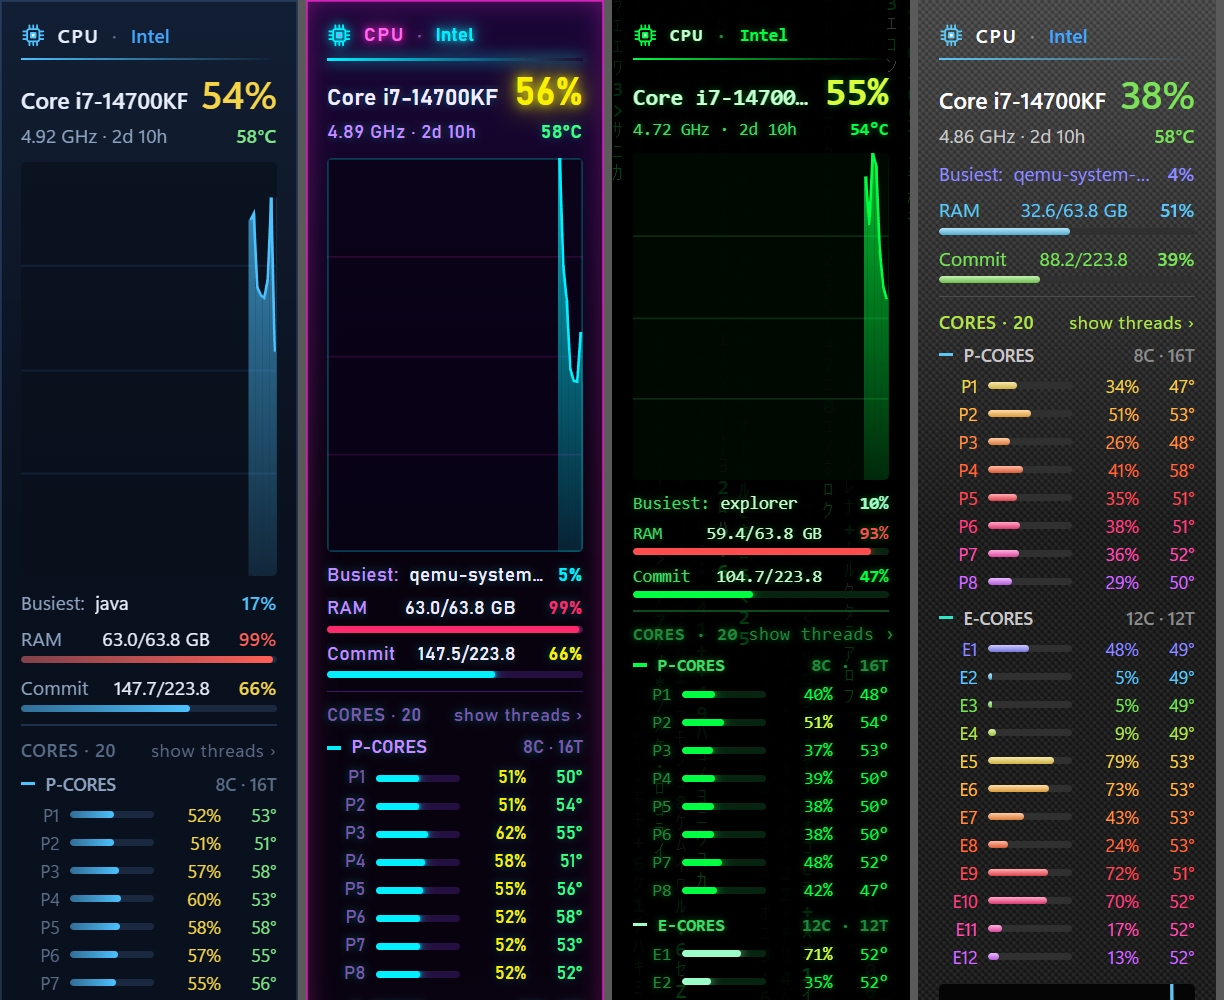
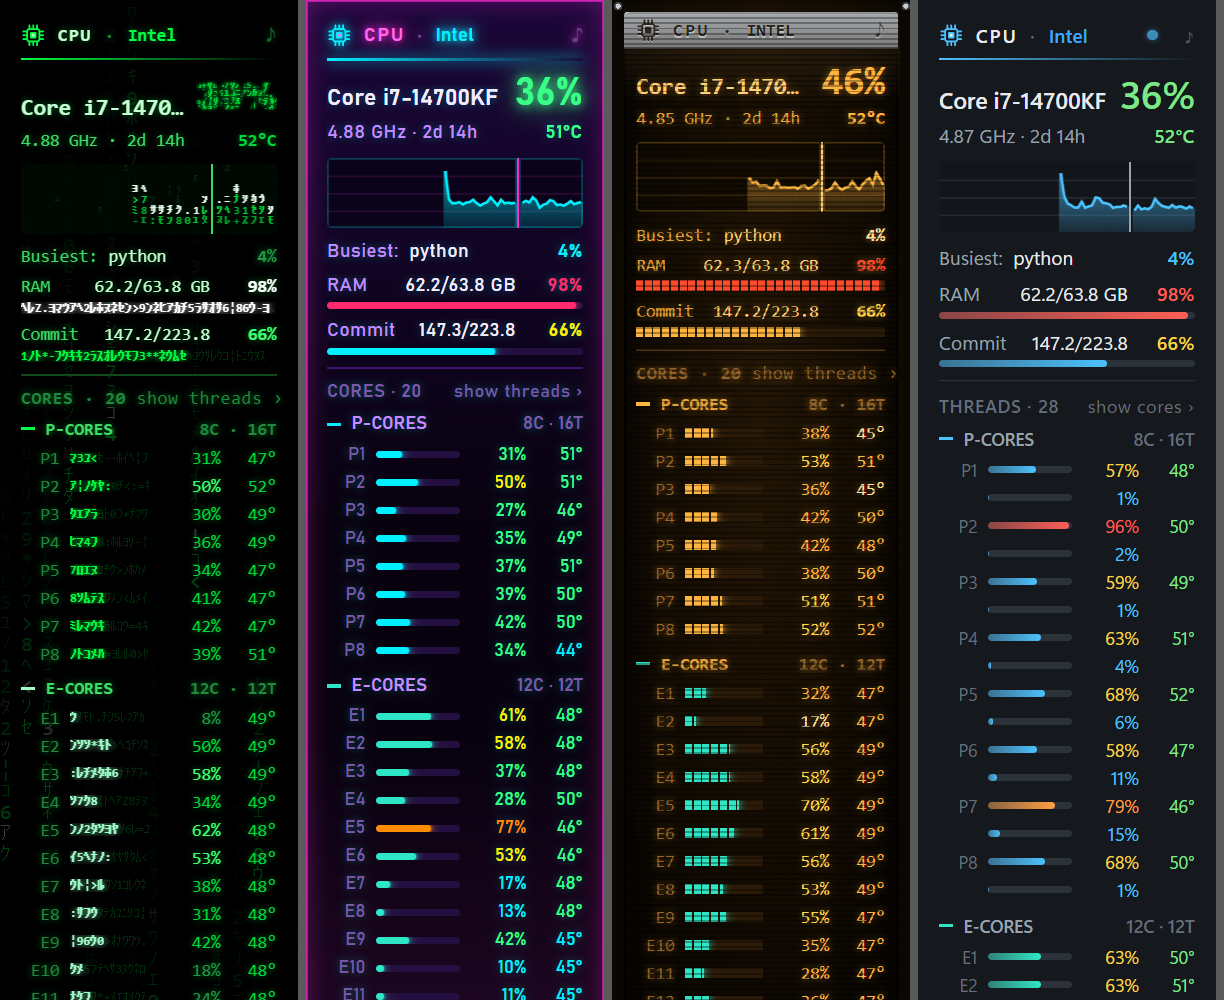
README and pictures for 0.9.1
Claude-Session: https://claude.ai/code/session_01HTZaGubNwcUTe4LQXTdqDg

diff --git a/README.md b/README.md
@@ -8,38 +8,45 @@ small window on the desktop. No 8GadgetPack needed.
 
 [![Support us on Ko-fi](https://ko-fi.com/img/githubbutton_sm.svg)](https://ko-fi.com/silverenio)
 
-![GPU Meter in Glass, Neon, Retro terminal and Matrix](docs/styles-1.png)
-![GPU Meter in Gray 90s, Rainbow, Light and Carbon](docs/styles-2.png)
+![GPU Meter in Dark, Neon 77, Digital rain and Atompunk](docs/styles-1.png)
+![GPU Meter in Terminal: monochrome, Rainbow, Gray 90s and Light](docs/styles-2.png)
 
 > **Beta (0.9).** Everything works, but it has been tried on few computers so far. If something
 > looks wrong, please [open an issue](https://github.com/livonianlabs/modern-meters-app-releases/issues).
 
 ## What it shows
 
-- **CPU:** total load and its graph, clock, uptime, the busiest program, memory, every core (P- and
-  E-cores apart on hybrid Intel processors) or every thread, temperatures from Core Temp.
-- **GPU:** load, video memory, memory controller, power, fan, clocks, temperature, encoder and
-  decoder, PCIe link. NVIDIA cards are read directly (NVML), the others through DirectX.
+- **CPU:** total load and its graph, clock, uptime, memory, every core (P- and E-cores apart on
+  hybrid Intel processors) or every thread, temperatures from Core Temp (fetched in two clicks if
+  you don't have it). A click on *Busiest* lists the five busiest programs.
+- **GPU:** load and temperature rings, video memory, memory controller, power, fan, clocks,
+  encoder and decoder, PCIe link, the busiest programs. NVIDIA cards are read directly (NVML),
+  the others through DirectX.
 - **Network:** download and upload with a graph, Wi-Fi network and signal, addresses (hidden until
   clicked), firewall, link speed, ping, traffic per session and in total.
-- **Drives:** each disk with its partitions, health, read and write speed and activity; SSD life
-  and drive temperatures once turned on (one click, needs administrator rights once).
-- **Weather:** now, the next hours as a chart, rain in the next two hours, three days, sunrise and
-  sunset, UV index and air quality, from [Open-Meteo](https://open-meteo.com/).
+- **Drives:** each disk with its partitions, health, SSD life, temperature, read and write speed.
+- **Weather:** now, the next hours as a chart, a rain radar map, rain in the next two hours, three
+  days, sunrise and sunset, UV index and air quality, from [Open-Meteo](https://open-meteo.com/).
+
+A **live zone** at the right of every graph shows the last seconds five times a second. **Alarms**
+(the ♪ on a gadget's title) sound when the processor or graphics card overheats, video memory is
+nearly full or the connection drops. If Windows' performance counters are broken, a gadget offers
+to repair them.
 
 ## Styles
 
-Glass, Colored glass, Classic, Light, Carbon, Rainbow, **Liquid** and **Air** (the desktop shows
-through, blurred), Retro terminal and three more terminals, Matrix, Neon and Gray 90s, or Auto
-(Light or Glass as Windows is set). Each has a touch of its own: the terminal's cursor retypes the
-title, the Matrix decodes it, Neon flickers like a sign, the glass catches a glint... The accent
-color is yours to pick.
+**Dark**, **Light** and **Auto** (as Windows is set); **Glass** and **Colored glass**, **Liquid** (a
+thick slab of glass bending the wallpaper, with ripples under the mouse) and **Air**, all four
+showing the wallpaper through, sharp or blurred as you like; **Carbon** and **Rainbow**; four
+**terminals** (retro green, aubergine, monochrome, blue commander); **Digital rain**, where even
+the graphs and numbers are made of falling glyphs; **Neon 77**; **Atompunk**; **Gray 90s**. Each
+has a touch of its own: a cursor retyping the title, a flickering sign, a tube warming up...
 
-![CPU Meter in Glass, Neon, Matrix and Rainbow](docs/cpu.png)
+![CPU Meter in Digital rain, Neon 77, Atompunk and Dark](docs/cpu.png)
 
 ## Install
 
-1. Download `ModernMeters-<version>-win-x64.zip` from the
+1. Download `ModernMeters-<version>.zip` from the
    [latest release](https://github.com/livonianlabs/modern-meters-app-releases/releases/latest).
 2. Unpack it into a folder of your choice, for example `Documents\Modern Meters`.
 3. Run `ModernMeters.exe`. The first start lines the gadgets up along the right edge and asks
@@ -54,18 +61,21 @@ and current Windows 10. .NET is included.
 ## Using it
 
 - **The tray icon** (by the clock; a left click brings the gadgets to the front, a right click opens
-  the menu): which gadgets are open, line them up, style, accent color, language (13), always on
-  top, animations, start with Windows, updates.
+  the menu): which gadgets are open, line them up, style, accent color, glass transparency,
+  language (13), always on top, animations, start with Windows.
 - **Drag** a gadget by its title. **⚙** and **✕** appear when the mouse is over it: ⚙ for its own
   settings, ✕ to close it (and whether it should still open at the next start).
-- **Updates:** once a day the app looks for a new version here. It shows as **↑ 0.9.1** on the
-  gadgets' titles; a click installs it. Or tick *Install updates by themselves* in the tray menu.
+- **New versions:** once a day the app looks for one here. It shows as **↑ 0.9.2** on the gadgets'
+  titles and in the tray menu; a click opens its page to download it.
 
 ## Privacy
 
 Modern Meters collects nothing about you. It connects to: Open-Meteo (weather, for the place you
-pick or the one Windows' location service gives), api.ipify.org (your external IP for the Network
-gadget, every 30 minutes), 1.1.1.1 (ping) and GitHub (the daily update check). Settings stay in `%LOCALAPPDATA%\ModernMeters\App`.
+pick or the one Windows' location service gives), RainViewer and Esri (the radar map, only while it
+shows), api.ipify.org (your external IP for the Network gadget, every 30 minutes), 1.1.1.1 (ping),
+alcpu.com (Core Temp, only when you ask for it) and GitHub (the daily check for a new version). The
+glass styles read your wallpaper to draw it; it stays on your computer. Settings stay in
+`%LOCALAPPDATA%\ModernMeters\App`.
 
 ## Uninstall
 
@@ -89,18 +99,19 @@ The same gadgets for the Windows Sidebar (8GadgetPack) are free and open source:
 ## По-русски
 
 Гаджеты для рабочего стола Windows 10 и 11: **процессор, видеокарта, сеть, накопители и погода**,
-каждый в своём окошке. 8GadgetPack не нужен.
+каждый в своём окошке. 8GadgetPack не нужен. 17 стилей, у каждого своя фишка; плавная зона на
+графиках; сигналы перегрева и обрыва связи; радар осадков; Core Temp в два клика.
 
-**Установка:** скачай `ModernMeters-<версия>-win-x64.zip` из
+**Установка:** скачай `ModernMeters-<версия>.zip` из
 [последнего выпуска](https://github.com/livonianlabs/modern-meters-app-releases/releases/latest),
 распакуй в любую папку и запусти `ModernMeters.exe`. Если Windows скажет «Система Windows защитила
 ваш компьютер», нажми **Подробнее → Выполнить в любом случае**: так бывает с любой новой
 программой без подписи.
 
 **Как пользоваться:** всё в меню значка у часов (правый клик): какие гаджеты открыты, «Выстроить
-гаджеты», стиль, цвет акцента, язык, «Поверх всех окон», анимации, автозапуск, обновления. Гаджет
-перетаскивается за заголовок; ⚙ и ✕ появляются под мышью. Новая версия появляется в заголовке
-как **↑ 0.9.1**, клик ставит её.
+гаджеты», стиль, цвет акцента, прозрачность стекла, язык, «Поверх всех окон», анимации, автозапуск.
+Гаджет перетаскивается за заголовок; ⚙ и ✕ появляются под мышью. Новая версия появляется в
+заголовке как **↑ 0.9.2**; клик открывает её страницу.
 
 **Поддержать:** программа отсюда бесплатна целиком. Если нравится, можно
 [угостить нас кофе на Ko-fi](https://ko-fi.com/silverenio) (есть и в меню значка).
